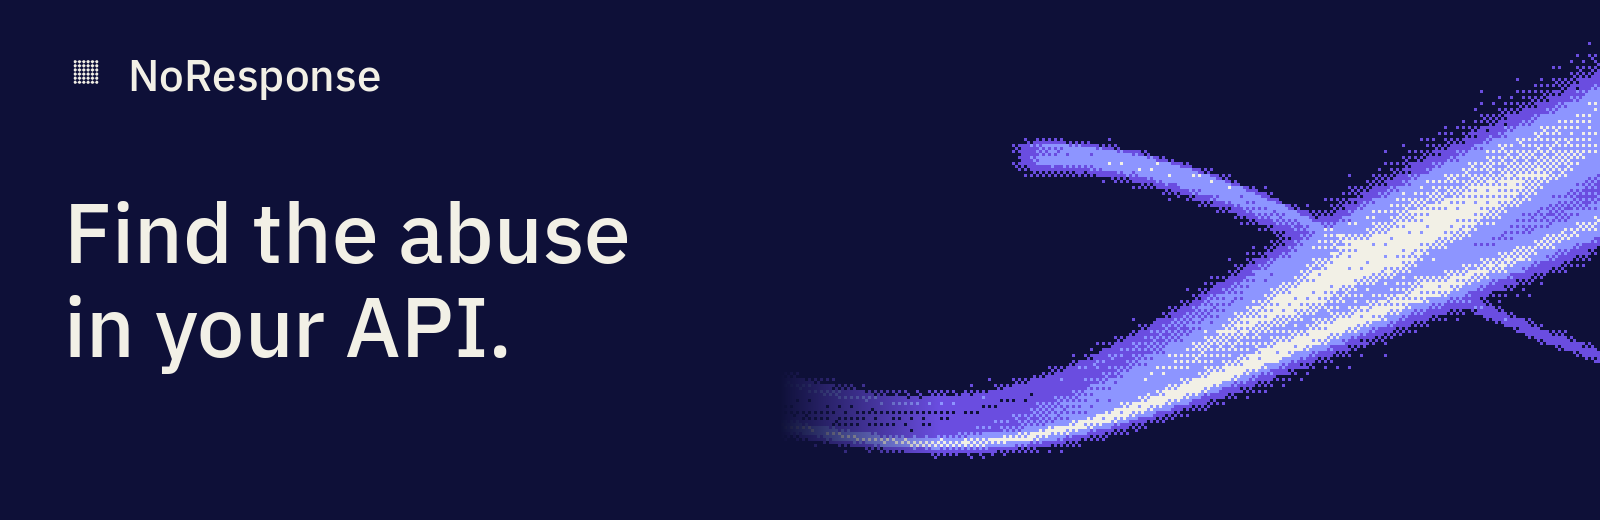
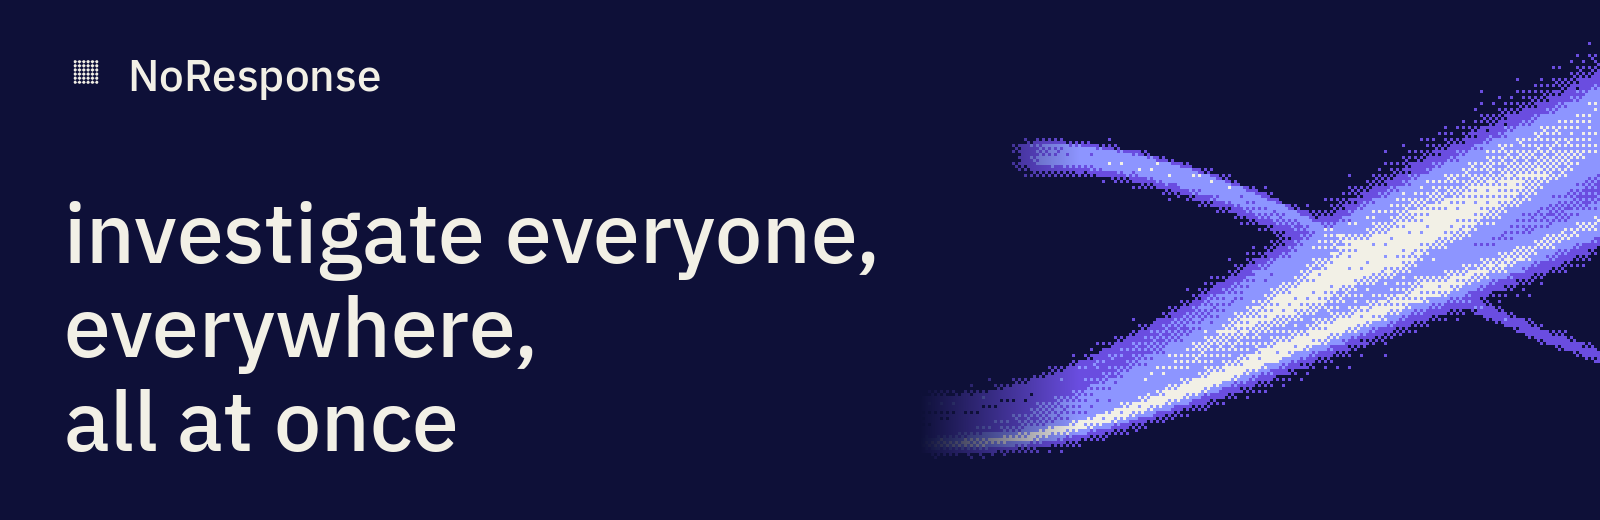
Change the header tagline to "investigate everyone, everywhere, all at once" (#2)

diff --git a/profile/render-headers.py b/profile/render-headers.py
@@ -53,15 +53,15 @@ def main():
     sdk = Image.new("RGB", (1600, 280), night)
     field_on(sdk, (700, 250, 1440, 530), (860, 0))
     brand(sdk, 64, 52, 64)
-    ImageDraw.Draw(sdk).text((64, 158), "Identity Intelligence", font=face(38), fill="#bcbfe2")
+    ImageDraw.Draw(sdk).text((64, 158), "investigate everyone, everywhere, all at once", font=face(38), fill="#bcbfe2")
     sdk.save(output / "sdk-header.png", optimize=True)
 
     banner = Image.new("RGB", (1600, 520), night)
-    field_on(banner, (620, 220, 1440, 740), (780, 0))
+    field_on(banner, (760, 220, 1440, 740), (920, 0))
     brand(banner, 64, 45, 44)
     draw = ImageDraw.Draw(banner)
-    draw.text((64, 176), "Find the abuse", font=face(84), fill=cream)
-    draw.text((64, 270), "in your API.", font=face(84), fill=cream)
+    for row, line in enumerate(("investigate everyone,", "everywhere,", "all at once")):
+        draw.text((64, 176 + 94 * row), line, font=face(84), fill=cream)
     banner.save(output / "banner.png", optimize=True)
 
 

diff --git a/profile/README.md b/profile/README.md
@@ -1,4 +1,4 @@
-<a href="https://noresponse.org"><img src="https://raw.githubusercontent.com/noresponsehq/.github/main/profile/banner.png" alt="NoResponse. Find the abuse in your API." width="100%"></a>
+<a href="https://noresponse.org"><img src="https://raw.githubusercontent.com/noresponsehq/.github/main/profile/banner.png" alt="NoResponse. Investigate everyone, everywhere, all at once." width="100%"></a>
 
 NoResponse connects the accounts behind the compute you're losing. Start with a review of the evidence your team already has.
 
